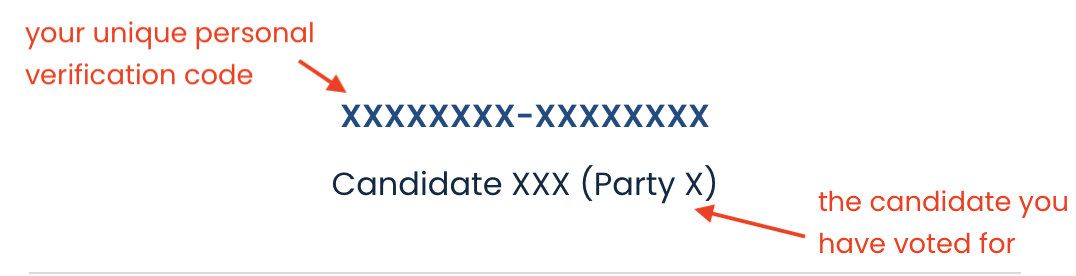
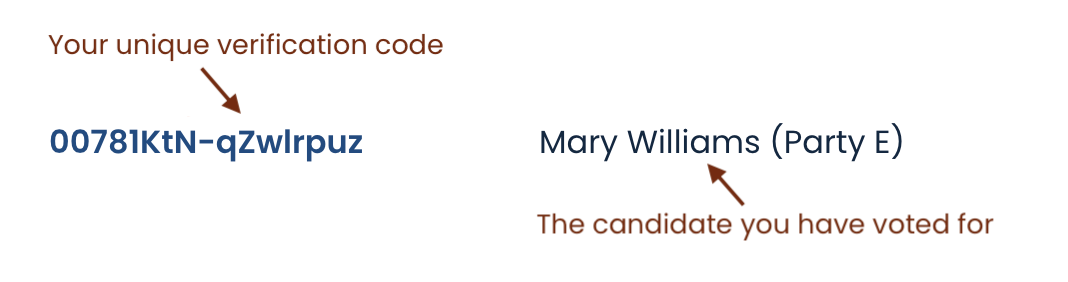
change verification code example

diff --git a/src/Voting-System/VerificationCode/VerificationCode.js b/src/Voting-System/VerificationCode/VerificationCode.js
@@ -1,11 +1,12 @@
 import { useState } from "react";
-import { Button, Text, Checkbox, Flex, Grid } from "@chakra-ui/react";
+import { Button, Text, Checkbox, Flex, Grid, Image, GridItem, Box } from "@chakra-ui/react";
 import "./VerificationCode.css";
 import { useNavigate } from "react-router-dom";
 import getCurrentUser from "../../API/Voter";
 import Navbar from "../Navbar/Navbar";
 import PDFgenerator from "./PDFgenerator";
 import PopOverVerificationCode from "./PopOverVerificationCode";
+import VerificationCodeExample from "../../assets/VerificationCode_example.png";
 
 export default function VerificationCode() {
   const navigate = useNavigate();
@@ -38,28 +39,45 @@ export default function VerificationCode() {
     <div>
       <Navbar />
       <div className="outer-page-container">
-        <div className="inner-page-container-wide">
-          <h1 className="blue-text">Welcome</h1>
-
-          <Flex
-            id="generated-verification-code"
-            className="generated-verification-code-container"
-          >
-            <Text>
+<Grid gridTemplateColumns={"1fr"} gap={"7rem"}>
+  {/* <GridItem>
+     <Box className={"info-box"} mt={"26rem"} ml={"2rem"}>
+      <h2>Why verify my vote?</h2>
+           <Text className="text-margin-top" fontSize={"0.9rem"}>
               To ensure the correctness of the voting result in this online
               election, it is important that you verify your vote. Possible
               manipulations can only be detected if as many voters as possible
               verify their vote and report problems. Vote verification is
               completely anonymous.
-            </Text>
-            <Text className="text-margin-top">
-              Below you find your unique verification code which will be
+            </Text> 
+    </Box> 
+  </GridItem> */}
+        <div className="inner-page-container-wide">
+          <Flex
+            id="generated-verification-code"
+            className="generated-verification-code-container"
+          >
+          <h1 className="blue-text">Welcome</h1>
+            <Text >
+              Welcome to the General Election 2023! 
+              </Text>
+           <Text className="text-margin-top">
+              In order 
+              to ensure the correctness of the voting result in this online
+              election, it is important that you verify your vote later in the process. 
+              In the box further down below, you find your unique verification code which will be
               connected to your vote. You will find both on the official result
-              page as soon as the results are up. You will also be able to scan
+              page as soon as the results are published, looking like this:
+              </Text>
+              
+              <Image src={VerificationCodeExample} mt={"2rem"} border={"solid 1px var(--light_grey)"}/>
+              <figcaption className="figcaption-verification-example">Example of verification code and vote</figcaption>
+              
+              <Text className="text-margin-top" >
+              You will also be able to scan
               a QR code which will only show you the vote that has been
               registered for your code. You get your QR code by downloading your
               code below.
-              <PopOverVerificationCode />
             </Text>
 
             <Text className="text-margin-top">
@@ -97,6 +115,7 @@ export default function VerificationCode() {
             </Button>
           </Flex>
         </div>
+          </Grid>
       </div>
     </div>
   );

diff --git a/src/Voting-System/VerificationCode/VerificationCode.css b/src/Voting-System/VerificationCode/VerificationCode.css
@@ -23,3 +23,9 @@
    width:0px;
   }
 
+  .figcaption-verification-example{
+    text-align: center;
+    font-size: 0.9rem;
+    line-height: 2;
+    color: grey;
+  }
